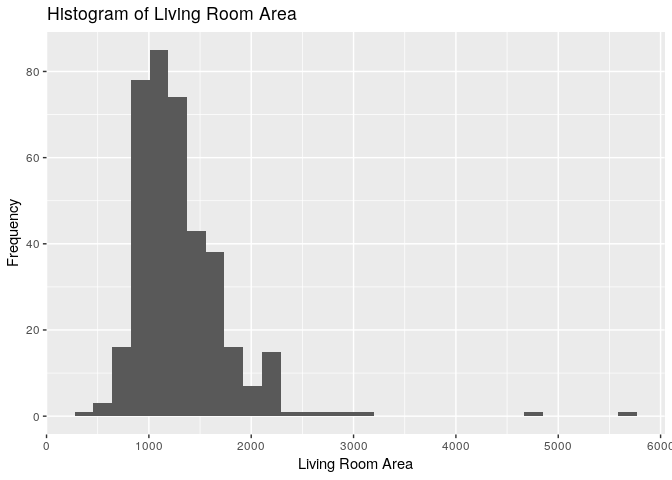
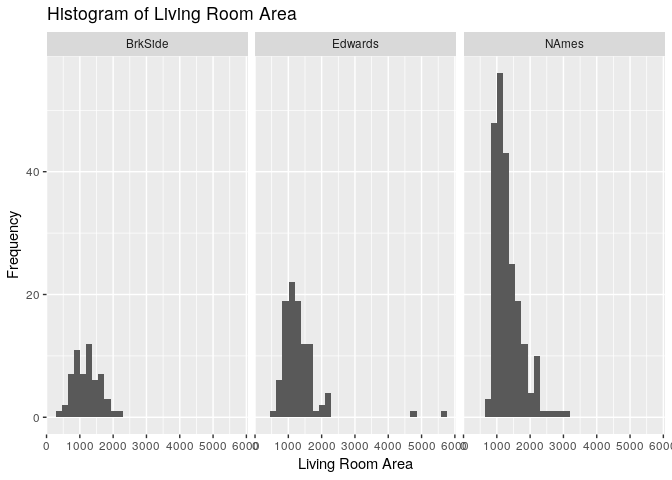
Change model to Log-Linear Rearange for cleanliness

diff --git a/analysis/studies/question1.md b/analysis/studies/question1.md
@@ -1,7 +1,7 @@
 Question 1
 ================
 Stuart Miller
-July 28, 2019
+July 31, 2019
 
 # Requested Analysis
 
@@ -39,6 +39,7 @@ dataset.
 ``` r
 train %>% ggplot(aes(x = SalePrice)) +
   geom_histogram() + 
+  facet_grid(. ~ Neighborhood) +
   labs(title = 'Histogram of Sale Price', 
        y = 'Frequency', x = 'Sale Price')
 ```
@@ -51,63 +52,48 @@ areas of houses in the dataset.
 ``` r
 train %>% ggplot(aes(x = GrLivArea)) +
   geom_histogram() + 
+  facet_grid(. ~ Neighborhood) +
   labs(title = 'Histogram of Living Room Area', 
        y = 'Frequency', x = 'Living Room Area')
 ```
 
 ![](question1_files/figure-gfm/LivingRoomHist-1.png)<!-- -->
 
-Both variables (`SalePrice` and `GrLivArea`) show evidence of right
-skew. This could indicate need for a log transform.
-
 Scatter plot of `SalePrice` vs `GrLivArea` shows that the large values
 in `GrLivArea` are pulling the regression line. A log transfrom on
-`GrLivArea` may help correct this.
+`SalePrice` may help correct this.
 
 ``` r
 train %>% ggplot(aes(x = GrLivArea, y = SalePrice)) +
   geom_point(alpha = 0.3) +
   labs(title = 'Sale Price vs Living Room Area', 
-       y = 'Log of Sale Price', x = 'Living Room Area')
+       y = 'Sale Price', x = 'Living Room Area')
 ```
 
 ![](question1_files/figure-gfm/regression-original-scale-1.png)<!-- -->
 
-Scatter plot of `SalePrice` vs log transform of `GrLivArea` shows taking
-the log transform of `GrLivArea` does improve the linear relationship.
-However, it appears that a larger value of `GrLivArea` is associated
-with an increase in varaince of `SalePrice`. A log transform of
-`SalePrice` may help control for this change in varaince.
+Scatter plot of the log transform of `SalePrice` vs `GrLivArea` shows
+taking the log transform of `GrLivArea` does improve the linear
+relationship. It seem reasible that the relationship could be linear,
+excluding the two anomalous points on the right of the graph. These
+points will need some investigation.
 
 ``` r
-train %>% ggplot(aes(x = log(GrLivArea), y = SalePrice)) +
+train %>% ggplot(aes(x = (GrLivArea), y = log(SalePrice))) +
   geom_point(alpha = 0.3) +
-  labs(title = 'Sale Price vs Log of Living Room Area', 
-       y = 'Sale Price', x = 'Log of Living Room Area')
+  labs(title = 'Log of Sale Price vs Living Room Area', 
+       y = 'Log of Sale Price', x = 'Living Room Area')
 ```
 
 ![](question1_files/figure-gfm/linear-log-plot-1.png)<!-- -->
-
-Scatter plot the log transform of `SalePrice` vs the log transform of
-`GrLivArea` shows evidece of a linear relationship without sufficient
-evidence of changing variance. Two points to the right side of the plot
-appear to be pulling the regression line to the right. These points
-should be investigated.
-
-``` r
-train %>% ggplot(aes(x = log(GrLivArea), y = log(SalePrice))) +
-  geom_point(alpha = 0.3) + 
-  labs(title = 'Log of Sale Price vs Log of Living Room Area', 
-       y = 'Log of Sale Price', x = 'Log of Living Room Area')
-```
-
-![](question1_files/figure-gfm/log-log-plot-1.png)<!-- -->
 
 Add labels of `SaleCondition` of the two points of interest and some
 neighboring points to the scatter plot the log transform of `SalePrice`
 vs the log transform of `GrLivArea`. This indicates the influential
 points are of type `Partial` `SaleCondition`, which means the houses
-were not completed at the time of assessment.
+were not completed at the time of assessment. This could mean the assess
+prices are not correct. These points will be excluded from the analysis
+becasue they may not be correct.
 
 ``` r
 train %>% ggplot(aes(x = log(GrLivArea), y = log(SalePrice))) +
@@ -122,50 +108,43 @@ train %>% ggplot(aes(x = log(GrLivArea), y = log(SalePrice))) +
 ![](question1_files/figure-gfm/log-log-plot-labeled-1.png)<!-- -->
 
 Scatter plot log of sale price vs log of living room area for each
-neighborhood. In each case, there is not sigificant evidence against the
-assumption of linearity.
+neighborhood with the suspect points excluded. In each case, there is
+not sigificant evidence against the assumption of linearity.
 
 ``` r
 regplot.names <- train %>% filter(Neighborhood == 'NAmes') %>%
-  ggplot(aes(x = log(GrLivArea), y = log(SalePrice))) +
+  ggplot(aes(x = (GrLivArea), y = log(SalePrice))) +
   geom_point(alpha = 0.3) +
-  ylim(10.5, 13) +
-  xlim(5.5, 9) +
+  ylim(10, 13) +
+  xlim(0, 3500) +
   geom_smooth(method = 'lm') +
   labs(subtitle = 'Northwest Ames', 
-       y = 'Log of Sale Price', x = 'Log of Living Room Area')
+       y = 'Log of Sale Price', x = 'Living Room Area')
 
-regplot.ed <- train %>% filter(Neighborhood == 'Edwards') %>%
-  ggplot(aes(x = log(GrLivArea), y = log(SalePrice))) +
+regplot.ed <- train %>%
+  filter(GrLivArea < 4000) %>%
+  filter(Neighborhood == 'Edwards') %>%
+  ggplot(aes(x = (GrLivArea), y = log(SalePrice))) +
   geom_point(alpha = 0.3) +
-  ylim(10.5, 13) +
-  xlim(5.5, 9) +
+  ylim(10, 13) +
+  xlim(0, 3500) +
   geom_smooth(method = 'lm') +
   labs(subtitle = 'Edwards', 
-       y = 'Log of Sale Price', x = 'Log of Living Room Area')
+       y = 'Log of Sale Price', x = 'Living Room Area')
 
 regplot.brk <- train %>% filter(Neighborhood == 'BrkSide') %>%
-  ggplot(aes(x = log(GrLivArea), y = log(SalePrice))) +
+  ggplot(aes(x = (GrLivArea), y = log(SalePrice))) +
   geom_point(alpha = 0.3) +
-  ylim(10.5, 13) +
-  xlim(5.5, 9) +
+  ylim(10, 13) +
+  xlim(0, 3500) +
   geom_smooth(method = 'lm') +
   labs(subtitle = 'Brook Side', 
-       y = 'Log of Sale Price', x = 'Log of Living Room Area')
+       y = 'Log of Sale Price', x = 'Living Room Area')
 grid.arrange(regplot.names,regplot.ed,regplot.brk, nrow = 2,
              top = 'Regression Plots for Neighborhoods')
 ```
 
 ![](question1_files/figure-gfm/log-log-plot-by-N-1.png)<!-- -->
-
-``` r
-train %>% ggplot(aes(x = log(GrLivArea), y = log(SalePrice), color = Neighborhood)) +
-  geom_point(alpha = 0.3) + 
-  labs(subtitle = 'Brook Side', 
-       y = 'Log of Sale Price', x = 'Log of Living Room Area')
-```
-
-![](question1_files/figure-gfm/unnamed-chunk-2-1.png)<!-- -->
 
 ## Model
 
@@ -178,9 +157,9 @@ where Edwards neighborhood is used for reference.
 ### Interaction Terms
 
 We will use an extra sums of square test to verify that the interaction
-terms are useful for the model. The ESS test provides strong evidence
-that the interaction terms are useful (p-value = 0.0002); thus, we will
-continue with the full model.
+terms are useful for the model. The ESS test provides convincing
+evidence that the interaction terms are useful (p-value \< 0.0001);
+thus, we will continue with the full model.
 
 ``` r
 # create dummy variables with Neighborhood == 'Edwards' as reference
@@ -191,33 +170,35 @@ train <- get.dummies(train, "Neighborhood", reference = 'Edwards')
     ## [1] "Neighborhood_NAmes"
 
 ``` r
+# remove suspect points from training data
+train.mod <- train %>% filter(GrLivArea < 4000)
+
 # full model formula
-model.formula = log(SalePrice) ~ log(GrLivArea) + 
+model.formula = log(SalePrice) ~ (GrLivArea) + 
      Neighborhood_BrkSide + 
      Neighborhood_NAmes +
-     log(GrLivArea) * Neighborhood_BrkSide + 
-     log(GrLivArea) * Neighborhood_NAmes
+     (GrLivArea) * Neighborhood_BrkSide + 
+     (GrLivArea) * Neighborhood_NAmes
 # reduced model formula
-model.reduced.formula = log(SalePrice) ~ log(GrLivArea) + 
+model.reduced.formula = log(SalePrice) ~ (GrLivArea) + 
      Neighborhood_BrkSide + 
      Neighborhood_NAmes
 
 # fit models
-model <- lm(formula = model.formula, data = train)
-model.reduced <- lm(formula = model.reduced.formula, data = train)
+model <- lm(formula = model.formula, data = train.mod)
+model.reduced <- lm(formula = model.reduced.formula, data = train.mod)
 # ESS test on models
 anova(model.reduced, model)
 ```
 
     ## Analysis of Variance Table
     ## 
-    ## Model 1: log(SalePrice) ~ log(GrLivArea) + Neighborhood_BrkSide + Neighborhood_NAmes
-    ## Model 2: log(SalePrice) ~ log(GrLivArea) + Neighborhood_BrkSide + Neighborhood_NAmes + 
-    ##     log(GrLivArea) * Neighborhood_BrkSide + log(GrLivArea) * 
-    ##     Neighborhood_NAmes
-    ##   Res.Df    RSS Df Sum of Sq     F    Pr(>F)    
-    ## 1    379 14.577                                 
-    ## 2    377 13.938  2   0.63951 8.649 0.0002125 ***
+    ## Model 1: log(SalePrice) ~ (GrLivArea) + Neighborhood_BrkSide + Neighborhood_NAmes
+    ## Model 2: log(SalePrice) ~ (GrLivArea) + Neighborhood_BrkSide + Neighborhood_NAmes + 
+    ##     (GrLivArea) * Neighborhood_BrkSide + (GrLivArea) * Neighborhood_NAmes
+    ##   Res.Df    RSS Df Sum of Sq      F    Pr(>F)    
+    ## 1    377 14.824                                  
+    ## 2    375 13.441  2    1.3834 19.299 1.053e-08 ***
     ## ---
     ## Signif. codes:  0 '***' 0.001 '**' 0.01 '*' 0.05 '.' 0.1 ' ' 1
 
@@ -228,58 +209,51 @@ chosen model.
 
 ``` r
 # formula for model
-model.formula = log(SalePrice) ~ log(GrLivArea) + 
+model.formula = log(SalePrice) ~ (GrLivArea) + 
      Neighborhood_BrkSide + 
      Neighborhood_NAmes +
-     log(GrLivArea) * Neighborhood_BrkSide + 
-     log(GrLivArea) * Neighborhood_NAmes
+     (GrLivArea) * Neighborhood_BrkSide + 
+     (GrLivArea) * Neighborhood_NAmes
 
 # model the mean response given equation above
-model <- lm(formula = model.formula, data = train)
+model <- lm(formula = model.formula, data = train.mod)
 summary(model)
 ```
 
     ## 
     ## Call:
-    ## lm(formula = model.formula, data = train)
+    ## lm(formula = model.formula, data = train.mod)
     ## 
     ## Residuals:
     ##      Min       1Q   Median       3Q      Max 
-    ## -0.72080 -0.10353  0.02184  0.10586  0.80470 
+    ## -0.71071 -0.11467  0.02085  0.11453  0.73596 
     ## 
     ## Coefficients:
-    ##                                     Estimate Std. Error t value Pr(>|t|)
-    ## (Intercept)                          8.00651    0.40320  19.858   <2e-16
-    ## log(GrLivArea)                       0.51967    0.05648   9.202   <2e-16
-    ## Neighborhood_BrkSide                -2.09359    0.64589  -3.241   0.0013
-    ## Neighborhood_NAmes                   0.48622    0.51751   0.940   0.3481
-    ## log(GrLivArea):Neighborhood_BrkSide  0.29998    0.09122   3.289   0.0011
-    ## log(GrLivArea):Neighborhood_NAmes   -0.04664    0.07248  -0.644   0.5203
-    ##                                        
-    ## (Intercept)                         ***
-    ## log(GrLivArea)                      ***
-    ## Neighborhood_BrkSide                ** 
-    ## Neighborhood_NAmes                     
-    ## log(GrLivArea):Neighborhood_BrkSide ** 
-    ## log(GrLivArea):Neighborhood_NAmes      
+    ##                                  Estimate Std. Error t value Pr(>|t|)    
+    ## (Intercept)                     1.103e+01  7.084e-02 155.633  < 2e-16 ***
+    ## GrLivArea                       5.387e-04  5.405e-05   9.966  < 2e-16 ***
+    ## Neighborhood_BrkSide           -2.339e-01  1.083e-01  -2.160 0.031409 *  
+    ## Neighborhood_NAmes              4.179e-01  8.237e-02   5.073 6.17e-07 ***
+    ## GrLivArea:Neighborhood_BrkSide  1.996e-04  8.443e-05   2.364 0.018598 *  
+    ## GrLivArea:Neighborhood_NAmes   -2.145e-04  6.210e-05  -3.454 0.000615 ***
     ## ---
     ## Signif. codes:  0 '***' 0.001 '**' 0.01 '*' 0.05 '.' 0.1 ' ' 1
     ## 
-    ## Residual standard error: 0.1923 on 377 degrees of freedom
-    ## Multiple R-squared:  0.5121, Adjusted R-squared:  0.5056 
-    ## F-statistic: 79.14 on 5 and 377 DF,  p-value: < 2.2e-16
+    ## Residual standard error: 0.1893 on 375 degrees of freedom
+    ## Multiple R-squared:  0.5271, Adjusted R-squared:  0.5208 
+    ## F-statistic: 83.61 on 5 and 375 DF,  p-value: < 2.2e-16
 
 ``` r
 confint(model)
 ```
 
-    ##                                          2.5 %      97.5 %
-    ## (Intercept)                          7.2137090  8.79930538
-    ## log(GrLivArea)                       0.4086192  0.63071533
-    ## Neighborhood_BrkSide                -3.3635933 -0.82357954
-    ## Neighborhood_NAmes                  -0.5313439  1.50378486
-    ## log(GrLivArea):Neighborhood_BrkSide  0.1206263  0.47933532
-    ## log(GrLivArea):Neighborhood_NAmes   -0.1891596  0.09587228
+    ##                                        2.5 %        97.5 %
+    ## (Intercept)                     1.088619e+01  1.116478e+01
+    ## GrLivArea                       4.323815e-04  6.449277e-04
+    ## Neighborhood_BrkSide           -4.468114e-01 -2.096977e-02
+    ## Neighborhood_NAmes              2.558923e-01  5.798200e-01
+    ## GrLivArea:Neighborhood_BrkSide  3.355877e-05  3.655777e-04
+    ## GrLivArea:Neighborhood_NAmes   -3.366455e-04 -9.241461e-05
 
 ### Model Accuracy Estimation
 
@@ -291,7 +265,7 @@ model.
 train.control <- trainControl(method = "cv", number = 10)
 # Train the model
 model.cv <- train(model.formula, 
-                    data = train,
+                    data = train.mod,
                     method = 'lm',
                     trControl = train.control)
 # print model summary
@@ -300,16 +274,16 @@ model.cv
 
     ## Linear Regression 
     ## 
-    ## 383 samples
+    ## 381 samples
     ##   3 predictor
     ## 
     ## No pre-processing
     ## Resampling: Cross-Validated (10 fold) 
-    ## Summary of sample sizes: 344, 345, 345, 345, 345, 343, ... 
+    ## Summary of sample sizes: 343, 344, 344, 341, 343, 342, ... 
     ## Resampling results:
     ## 
-    ##   RMSE       Rsquared   MAE     
-    ##   0.1925072  0.5094893  0.146381
+    ##   RMSE       Rsquared   MAE      
+    ##   0.1910566  0.5084024  0.1483625
     ## 
     ## Tuning parameter 'intercept' was held constant at a value of TRUE
 
@@ -328,7 +302,7 @@ kable(data.frame('RMSE'=res$RMSE,
 
 |      RMSE | CV.Press | Adjused.R.Squared |
 | --------: | -------: | ----------------: |
-| 0.1925072 | 12.77424 |         0.5094893 |
+| 0.1910566 | 12.51675 |         0.5084024 |
 
 ## Model Assumptions Assessment
 
@@ -346,7 +320,7 @@ kable(data.frame('RMSE'=res$RMSE,
 <!-- end list -->
 
 ``` r
-basic.fit.plots(train, model)
+basic.fit.plots(train.mod, model)
 ```
 
 ![](question1_files/figure-gfm/diag-plots-1.png)<!-- -->
